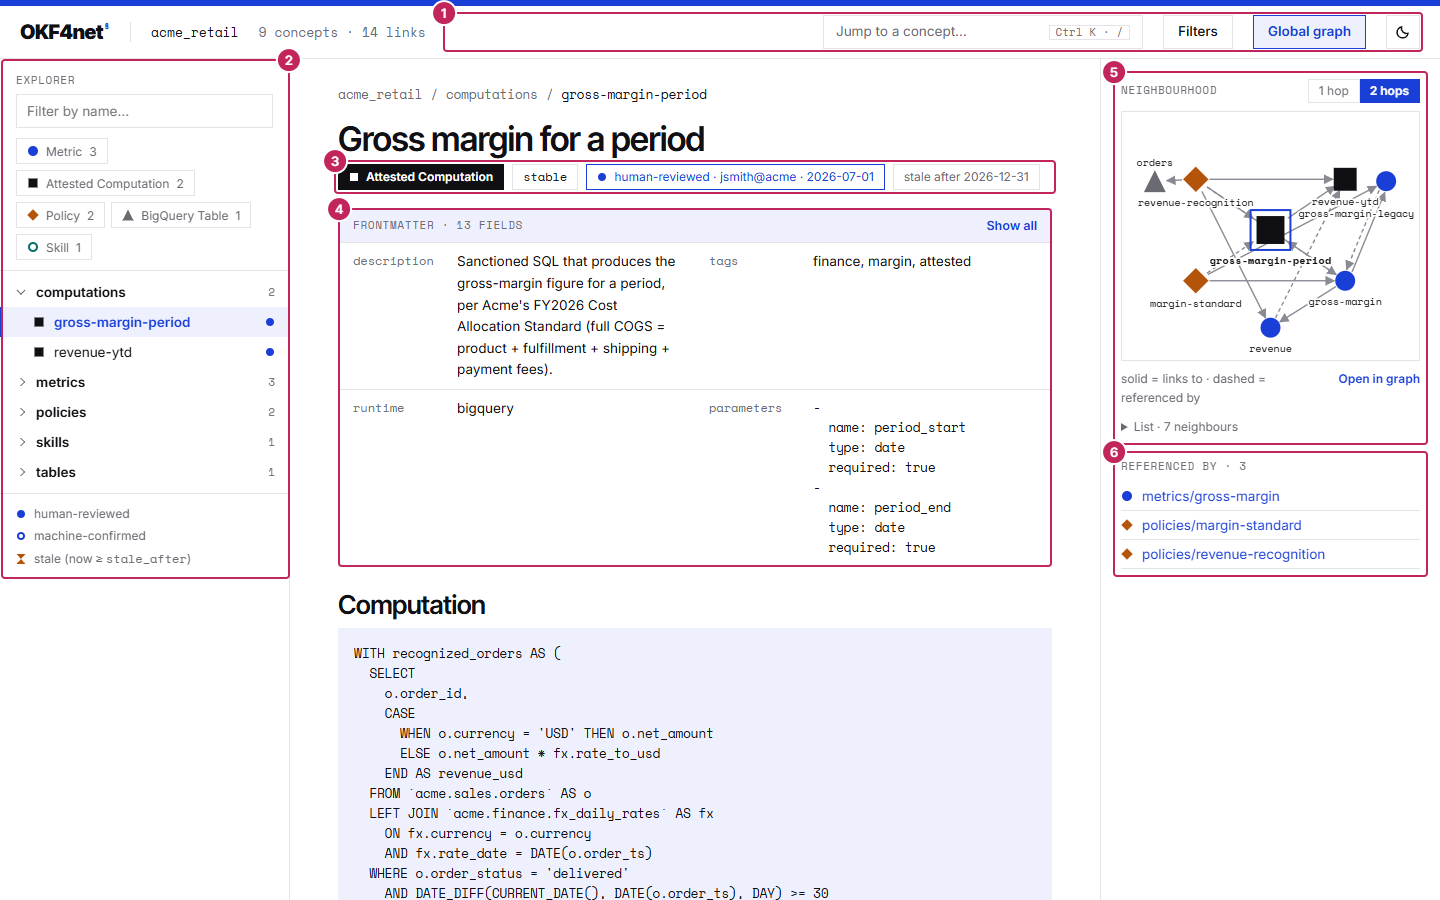
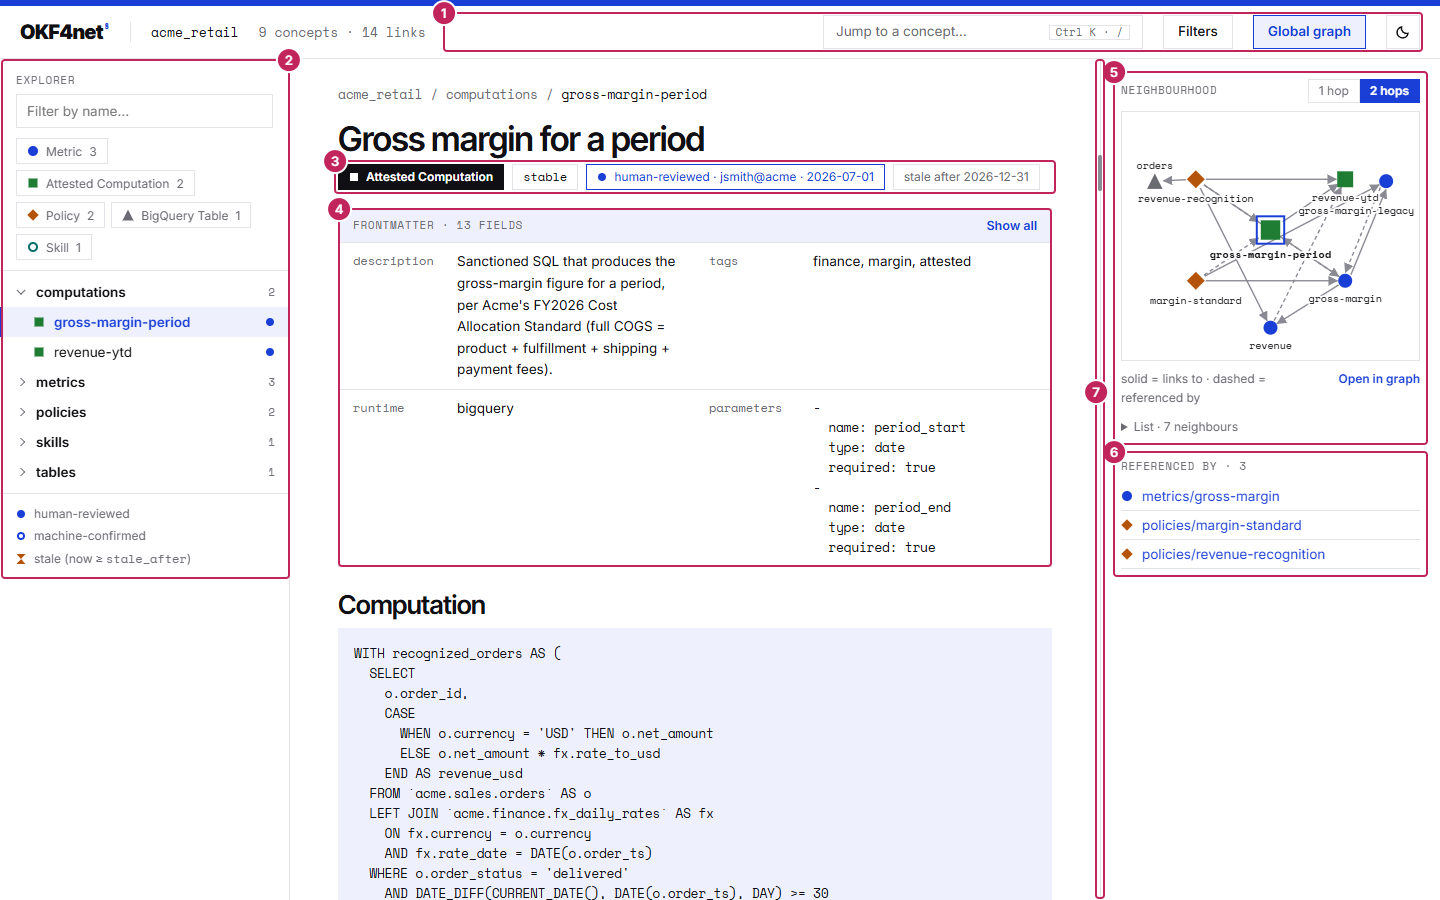
docs(web): viewer docs follow v2-shapes and v2-resize; splitter chapter and capture
Screenshots re-taken on the merged viewer (green rank-1 square, 0.7 graph shapes, the
splitter outlined in the concept and graph captures, plus a new real-drag capture with the
focus ring). New "Resizing the side column" chapter, facts checked against okf-resize.js.
The local-graph modal stays a reserved comment. CHANGELOG and README mention the splitter.

diff --git a/web/src/pages/docs/Viewer.tsx b/web/src/pages/docs/Viewer.tsx
@@ -17,8 +17,8 @@ const renderHtml = `$ okf-render bundles/acme_retail --out ./acme-site
  *
  * Wording rule: nothing here names a colour or a shape size, and the
  * numbered lists next to the two annotated screenshots must match the
- * callouts `docs-shots.js` draws. Two spots are reserved, as JSX comments,
- * for paragraphs to add once the work on them has landed.
+ * callouts `docs-shots.js` draws. One spot is reserved, as a JSX comment, for
+ * a paragraph to add once the work on it has landed (the local graph in a modal).
  */
 export default function Viewer() {
   return (
@@ -118,15 +118,54 @@ export default function Viewer() {
             <li>
               <strong>Referenced by</strong>: the concepts whose body links to this one, with a count.
             </li>
+            <li>
+              <strong>The splitter</strong> between the centre column and the right-hand column: drag it to give that
+              column more room. <a href="#splitter">More below.</a>
+            </li>
           </ol>
           <p>
             From 1,100 px of window width the three columns sit side by side; below that they stack, the page first,
             then its context, then the explorer, so nobody scrolls through a tree to reach the text.
           </p>
-          {/*
-            RESERVED (v2-resize) — the splitter between the middle and the right column.
-            Add its paragraph here, with the capture, once that change has merged.
-          */}
+        </Chapter>
+
+        <Chapter id="splitter" title="Resizing the side column" refText="drag it or use the keys — from 1,100 px">
+          <p>
+            The right-hand column — the context panel of a concept page, the detail drawer of the global graph — is
+            340 px wide by default. A thin bar on its left edge, the <strong>splitter</strong>, resizes it, so a graph
+            can have more room. Drag it with a mouse, a finger or a pen: the column follows the pointer, and{' '}
+            <kbd>Esc</kbd> during a drag puts the width back. The explorer and the facets column are not resizable.
+          </p>
+          <Shot {...viewerShots.splitter}>
+            The panel after a drag to the left and one press of <kbd>←</kbd>: the splitter shows its focus ring.
+          </Shot>
+          <ul className="plain">
+            <li>
+              <strong>Keyboard.</strong> The splitter is a tab stop (a <code>separator</code> named{' '}
+              <em>Resize the side panel</em>, with its width in pixels as its value). With it focused, <kbd>←</kbd>{' '}
+              widens the column and <kbd>→</kbd> narrows it by 16 px, 64 px with <kbd>Shift</kbd>; <kbd>Home</kbd> and{' '}
+              <kbd>End</kbd> go to the narrowest and the widest; <kbd>Enter</kbd> or a double click restores the
+              default width. Combinations with <kbd>Alt</kbd>, <kbd>Ctrl</kbd> or <kbd>⌘</kbd> are left to the
+              browser.
+            </li>
+            <li>
+              <strong>Bounds.</strong> At least 240 px; at most the smallest of 60% of the window, 720 px, and what
+              leaves the centre column 360 px.
+            </li>
+            <li>
+              <strong>Remembered.</strong> The width is kept in the browser's local storage, under one key shared by the
+              concept pages and the graph page; where the browser refuses storage, or does not share it between{' '}
+              <code>file://</code> pages, the splitter still works but forgets.
+            </li>
+            <li>
+              <strong>Narrow windows.</strong> Below 1,100 px the columns are stacked, the splitter is hidden and a
+              stored width is ignored.
+            </li>
+            <li>
+              <strong>The graph follows.</strong> When the drawing's area changes size, the global graph fits itself to
+              it again, unless you have already moved the view yourself (then <em>Fit</em> does it).
+            </li>
+          </ul>
         </Chapter>
 
         <Chapter id="explorer" title="The explorer" refText="tree, type chips, filter, marks">
@@ -203,6 +242,10 @@ export default function Viewer() {
               no Neighbourhood.
             </li>
           </ul>
+          {/*
+            RESERVED (local-graph modal) — a paragraph on enlarging the Neighbourhood in a modal, to add
+            here once that change has merged; the wording above names no size and no colour on purpose.
+          */}
         </Chapter>
 
         <Chapter id="graph" title="The global graph" refText="graph.html — §6 links, laid out in the browser">
@@ -233,6 +276,10 @@ export default function Viewer() {
               <strong>The detail drawer</strong> of the selected concept: its id, title, chips, description, the
               concepts it links to and those that reference it, and an <em>Open page</em> button. In the header,{' '}
               <em>Reading view</em> leads to the selected concept's page.
+            </li>
+            <li>
+              <strong>The splitter</strong>, which resizes the drawer: see{' '}
+              <a href="#splitter">Resizing the side column</a>.
             </li>
           </ol>
           <Shot {...viewerShots.graphFacets}>
@@ -266,10 +313,6 @@ export default function Viewer() {
             first and the last, an arrow key goes to the nearest neighbour in that direction, <kbd>Space</kbd> selects
             and <kbd>Enter</kbd> opens the concept's page.
           </p>
-          {/*
-            RESERVED (v2-shapes) — if the graph's node size or the type legend needs a sentence once that
-            change has merged, add it here; the wording above names no size and no colour on purpose.
-          */}
         </Chapter>
 
         <Chapter id="theme" title="Theme and small screens" refText="follows the system, works on a phone">

diff --git a/tools/viewer-security-check/recette/docs-shots.js b/tools/viewer-security-check/recette/docs-shots.js
@@ -62,7 +62,8 @@ function render(dest) {
 // padding, corner]: it outlines the element found by the selector, kept inside
 // the viewport, and puts its number on the outline's top-left corner ("tl", the
 // default) or top-right corner ("tr", for a panel whose title starts at the
-// left edge).
+// left edge); "tl@N" sets the number N px lower, for a tall thin outline (the
+// splitter) whose top corner another number already uses.
 async function annotate(page, notes) {
   await page.evaluate((list) => {
     const colour = "#c2255c";
@@ -82,9 +83,10 @@ async function annotate(page, notes) {
       box.style.cssText = `position:fixed;z-index:99999;pointer-events:none;box-sizing:border-box;border:2px solid ${colour};border-radius:4px;left:${left}px;top:${top}px;width:${right - left}px;height:${bottom - top}px`;
       const badge = document.createElement("div");
       badge.textContent = String(n);
-      const side = corner === "tr" ? "right:-2px" : "left:-2px";
-      const shift = corner === "tr" ? "translate(45%,-45%)" : "translate(-45%,-45%)";
-      badge.style.cssText = `position:absolute;${side};top:-2px;transform:${shift};width:22px;height:22px;border-radius:50%;background:${colour};color:#fff;font:700 13px/22px Inter,Arial,sans-serif;text-align:center;box-shadow:0 0 0 2px #fff`;
+      const at = /^(tl|tr)(?:@([0-9]+))?$/.exec(corner || "tl");
+      const side = at[1] === "tr" ? "right:-2px" : "left:-2px";
+      const shift = at[1] === "tr" ? "translate(45%,-45%)" : "translate(-45%,-45%)";
+      badge.style.cssText = `position:absolute;${side};top:${at[2] ? Number(at[2]) : -2}px;transform:${shift};width:22px;height:22px;border-radius:50%;background:${colour};color:#fff;font:700 13px/22px Inter,Arial,sans-serif;text-align:center;box-shadow:0 0 0 2px #fff`;
       box.appendChild(badge);
       document.body.appendChild(box);
     }
@@ -156,7 +158,29 @@ async function graphSettled(page) {
           [4, "#okf-fm", 0],
           [5, "#okf-context .okf-local", 8],
           [6, "#okf-context .okf-backlinks", 8],
+          [7, ".okf-splitter", 0, "tl@330"],
         ]);
+      },
+    });
+
+    // The splitter, used for real: dragged with the mouse, then moved once with the
+    // keyboard so its focus ring shows (a mouse press alone does not draw it).
+    await shot("viewer-splitter", {
+      run: async (page) => {
+        await page.goto(page_("computations/gross-margin-period.html"));
+        await settle(page);
+        await page.getByRole("button", { name: "2 hops" }).click();
+        const box = await page.locator(".okf-splitter").boundingBox();
+        const x = box.x + box.width / 2;
+        const y = box.y + 200;
+        await page.mouse.move(x, y);
+        await page.mouse.down();
+        await page.mouse.move(x - 100, y, { steps: 10 });
+        await page.mouse.move(x - 200, y, { steps: 10 });
+        await page.mouse.up();
+        await page.keyboard.press("ArrowLeft");
+        await page.mouse.move(700, 600);
+        await settle(page);
       },
     });
 
@@ -204,9 +228,10 @@ async function graphSettled(page) {
         await graphSettled(page);
         await annotate(page, [
           [1, "#okf-facets", 0, "tr"],
-          [2, "#okf-graph-canvas", 0, "tr"],
+          [2, "#okf-graph-canvas", 0, "tl@40"],
           [3, "#okf-graph-zoom", 4],
-          [4, "#okf-graph-detail", 0],
+          [4, "#okf-graph-detail", -10],
+          [5, ".okf-splitter", 0, "tl@330"],
         ]);
       },
     });

diff --git a/web/src/content/viewerShots.ts b/web/src/content/viewerShots.ts
@@ -29,7 +29,14 @@ export interface ViewerShot {
 export const viewerShots = {
   concept: {
     file: 'viewer-concept.png',
-    alt: 'A concept page of the acme_retail bundle in okf-render, with six numbered callouts: the header, the explorer on the left, the chips under the title, the frontmatter box, the Neighbourhood local graph at two hops and the Referenced by list in the right-hand panel.',
+    alt: 'A concept page of the acme_retail bundle in okf-render, with seven numbered callouts: the header, the explorer on the left, the chips under the title, the frontmatter box, the Neighbourhood local graph at two hops, the Referenced by list and, between the centre column and the right-hand panel, the splitter.',
+    width: 1440,
+    height: 900,
+    maxWidth: 1440,
+  },
+  splitter: {
+    file: 'viewer-splitter.png',
+    alt: 'A concept page whose right-hand column has been dragged wider than its default: the splitter between the centre column and the panel shows its blue focus ring, the frontmatter box is narrower and the Neighbourhood graph sits in the wider panel.',
     width: 1440,
     height: 900,
     maxWidth: 1440,
@@ -57,7 +64,7 @@ export const viewerShots = {
   },
   graph: {
     file: 'viewer-graph.png',
-    alt: 'The global graph page with four numbered callouts: the facets column, the drawing with the selected concept outlined and its links in blue, the zoom, Fit and List buttons, and the detail drawer of the selected concept with its Open page button.',
+    alt: 'The global graph page with five numbered callouts: the facets column, the drawing with the selected concept outlined and its links in blue, the zoom, Fit and List buttons, the detail drawer of the selected concept with its Open page button and, between the drawing and the drawer, the splitter.',
     width: 1440,
     height: 900,
     maxWidth: 1440,

diff --git a/CHANGELOG.md b/CHANGELOG.md
@@ -54,6 +54,12 @@ and this project adheres to
     Up/Down, Home/End, arrows, Space, Enter). `graph.html#<concept id>` opens
     the graph with that concept selected, and a concept page's link carries
     its id.
+  - *Resizable side panel.* The right-hand column (the context panel, the
+    graph drawer) has a keyboard- and pointer-operable splitter
+    (`okf-resize.js`): drag it, or use the arrow keys (Shift for larger steps,
+    Home/End, Enter to reset). The width, bounded by 240 px, 60% of the window,
+    720 px and a 360 px middle column, is kept in `localStorage`, ignored below
+    1,100 px, and the global graph refits when its canvas changes size.
 - **`samples/agents-quickstart`**, an `OKF4net.Agents` sample that runs with
   `dotnet run` and needs no LLM endpoint, API key or network access (#5). Over
   `bundles/ga4`, it lists the read-only tools, calls `Search` and

diff --git a/README.md b/README.md
@@ -400,7 +400,8 @@ the whole bundle's links with a layout computed in the browser, narrowed by
 facets (type, trust, freshness, tags), with a list equivalent and keyboard
 navigation; both are described in
 [`src/OKF4net.Viewer/README.md`](src/OKF4net.Viewer/README.md) and, with screenshots, in the
-[viewer docs](https://jchable.github.io/okf4net/docs/viewer/). The Inter,
+[viewer docs](https://jchable.github.io/okf4net/docs/viewer/). The right-hand
+column can be resized with a splitter (drag it, or use the arrow keys). The Inter,
 Inter Tight and Space Mono fonts are embedded.
 It is read-only, and has no full-text search: a static site has no server
 to run the shared `ConceptSearch` scorer, and mirroring its weights in
